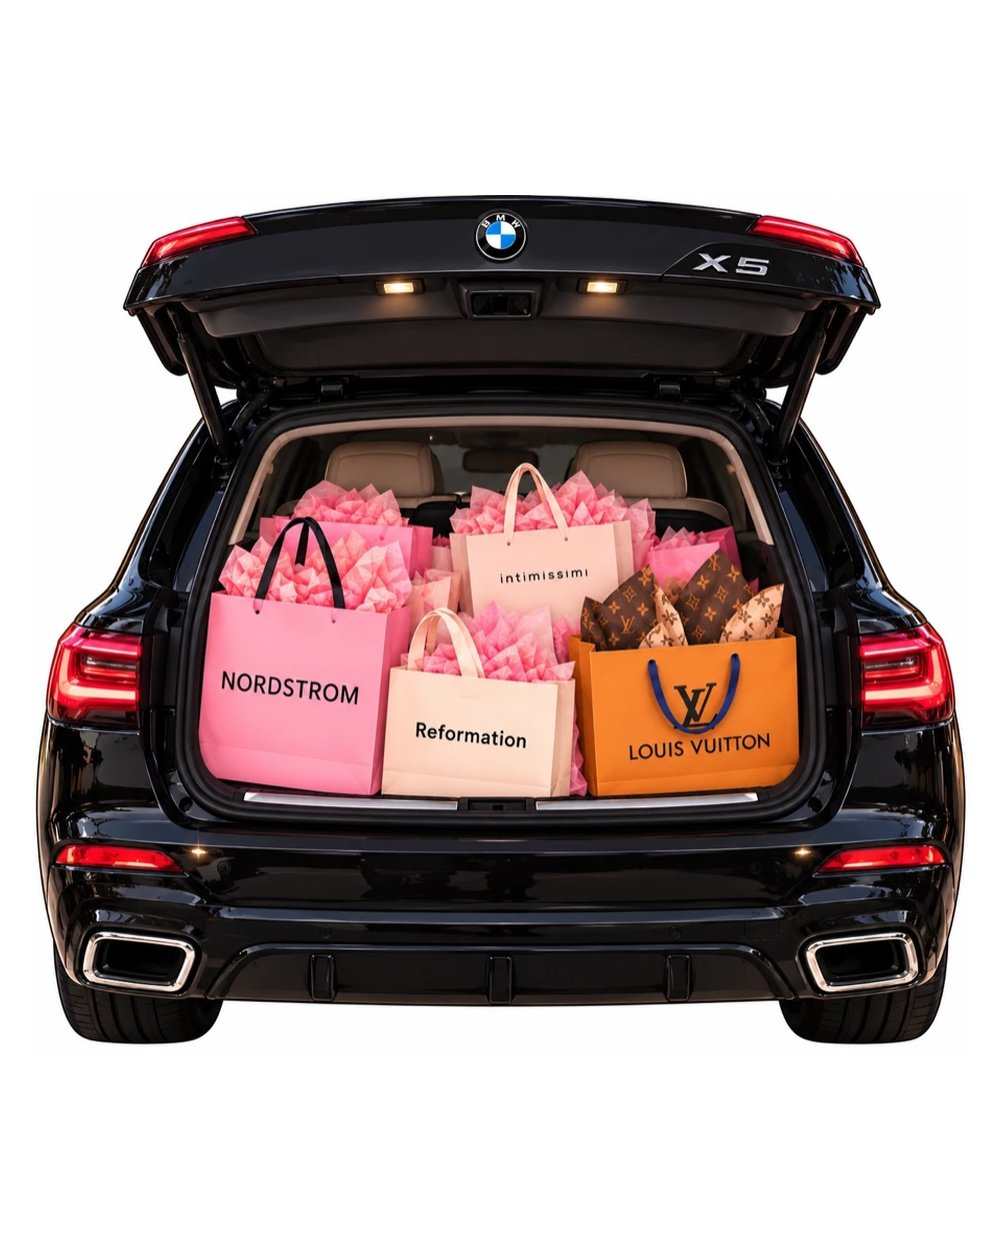
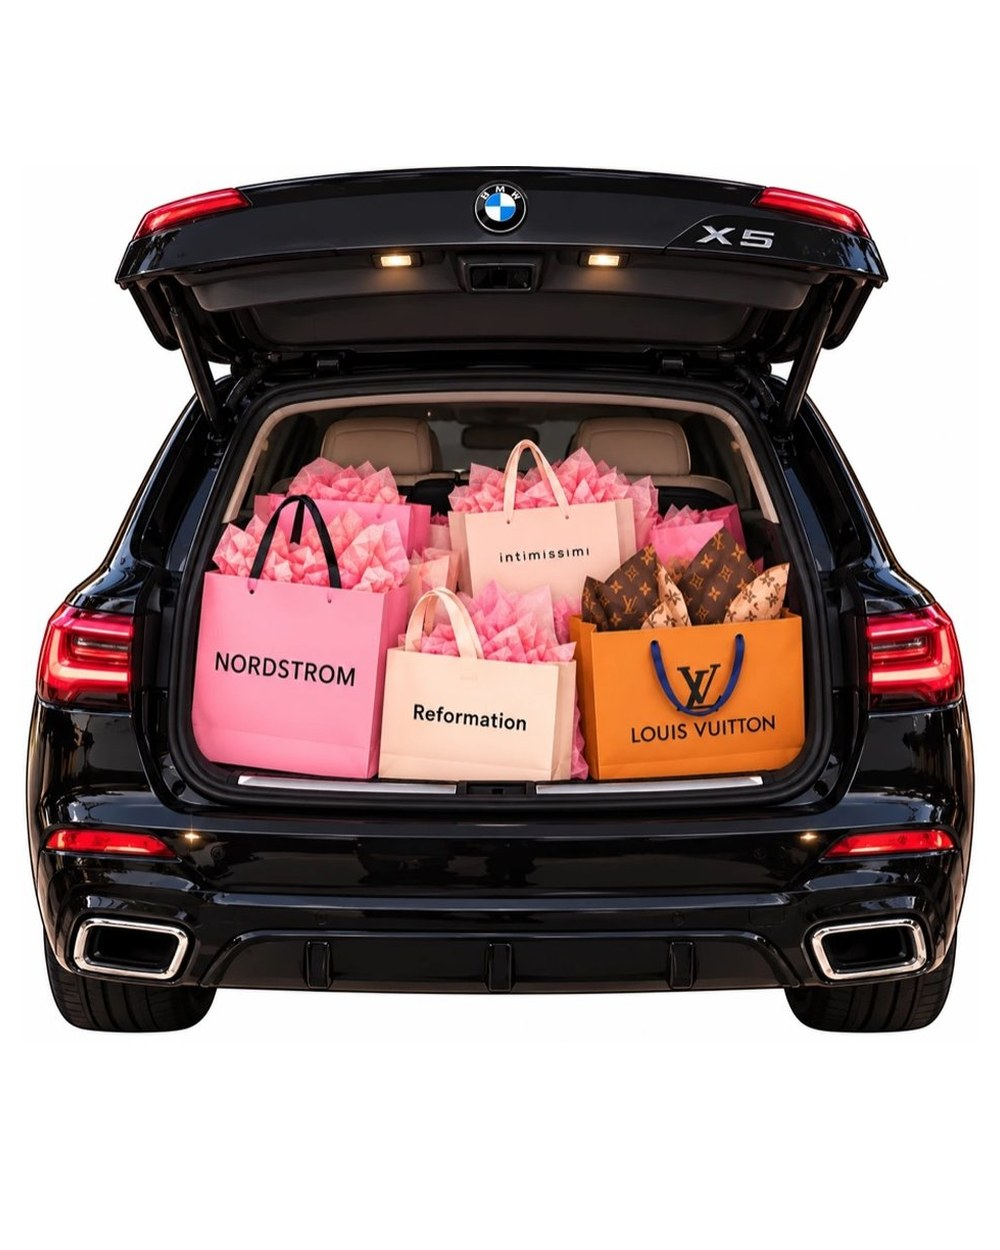
Trunk: smooth tailgate wipe between the two sharp photos; last stop is coffee

diff --git a/app.js b/app.js
@@ -1923,9 +1923,9 @@ const VIEWS = {
             <div class="bbb-photo kshop-photo" data-step="0">
                 <img data-s="0" src="assets/img/keys-before.jpg?v=2" alt="Me as a toddler, pouting in an empty shopping cart">
                 <img data-s="1" src="assets/img/keys-after.jpg?v=2" alt="Me as a toddler, beaming in a cart full of shopping bags" loading="lazy">
-                <img data-s="2" src="assets/img/keys-trunk.jpg?v=2" alt="My black BMW X5 with the trunk open, full of Nordstrom, Intimissimi, Reformation and Louis Vuitton bags" loading="lazy">
+                <img data-s="2" src="assets/img/keys-trunk.jpg?v=3" alt="My black BMW X5 with the trunk open, full of Nordstrom, Intimissimi, Reformation and Louis Vuitton bags" loading="lazy">
                 <img data-s="3" src="assets/img/keys-home.jpg?v=2" alt="My BMW X5 from the back, trunk closed, pink DIVAAA Texas plate" loading="lazy">
-                <img class="kshop-anim" src="assets/trunk/f00.jpg" alt="" aria-hidden="true">
+                <img class="kshop-anim-base" src="assets/img/keys-home.jpg?v=2" alt="" aria-hidden="true"><img class="kshop-anim" src="assets/img/keys-home.jpg?v=2" alt="" aria-hidden="true">
                 <span class="bbb-tag mono" id="kshop-tag">before the mall</span>
             </div>
             <button type="button" class="btn solid" id="kshop-go">cmon barbie, let’s go shopping 🛍</button>
@@ -3746,8 +3746,8 @@ const AFTER = {
                 const opening = !trunkOpen;
                 if (playing) return;
                 // start the flipbook from whatever the photo shows now, so it never jumps
-                if (opening) { SFX.fob('trunk'); playTrunk([0, 1, 2, 3, 4, 5, 6, 7], () => { setStep(2); toast('trunk’s open. the bags are safe ♡'); }); }
-                else { SFX.fob('lock'); playTrunk([10, 11, 12, 13, 14, 15], () => { setStep(3); toast('trunk closed. bags secured. no one will ever know.'); }); }
+                if (opening) { SFX.fob('trunk'); playTrunk(true, () => { setStep(2); toast('trunk’s open. the bags are safe ♡'); }); }
+                else { SFX.fob('lock'); playTrunk(false, () => { setStep(3); toast('trunk closed. bags secured. no one will ever know.'); }); }
                 $('#kshop').scrollIntoView({ block: 'center', behavior: reduce ? 'auto' : 'smooth' });
                 return;
             }
@@ -3763,9 +3763,9 @@ const AFTER = {
             [null, 'before the mall', 'cmon barbie, let’s go shopping 🛍', 'can we puh-weaseee go shopping? 🥺'],
             ['unlock', 'after the mall!', 'load up the car 🚙', 'nordstrom, intimissimi, reformation, louis vuitton. it’s called retail therapy.'],
             ['trunk', 'okay, stuff’s in the car', 'okay, time to go home 🏠', 'the trunk is full. the trunk is never full.'],
-            ['lock', 'okay, time to go home', 'one more lap 🛍', 'DIVAAA, headed home. (via one more store.)']
+            ['lock', 'okay, time to go home', 'okay but can we stop for coffee on the way ☕', 'DIVAAA, headed home.']
         ];
-        const laps2 = ['one more lap, obviously.', 'retail therapy is still therapy.', 'okay NOW we’re going home. (we are not.)'];
+        const laps2 = ['medici. vanilla latte. obviously ☕', 'one stamp closer to a free one.', 'okay NOW we’re going home ♡'];
         let step = 0, laps = 0;
         const photo = shop.querySelector('.kshop-photo');
         const showStep = () => {
@@ -3777,21 +3777,20 @@ const AFTER = {
         let trunkOpen = false;
         const setStep = n => { step = n; trunkOpen = n === 2; b2.textContent = trunkOpen ? 'Close trunk' : 'Trunk'; showStep(); if (!reduce) { shop.classList.remove('poof'); void shop.offsetWidth; shop.classList.add('poof'); } };
         const b2 = sheetBody.querySelector('[data-fob="trunk"]');
-        // the trunk flipbook: 20 frames. 0–5 the tailgate lifts and there are the bags, 10–14 it swings shut.
+        // the trunk: the incoming photo wipes in along the tailgate. opening sweeps up from the bumper, closing sweeps down from the roof.
         const anim = shop.querySelector('.kshop-anim');
-        const FR = Array.from({ length: 20 }, (_, i) => `assets/trunk/f${String(i).padStart(2, '0')}.jpg`);
-        FR.forEach(src => { const im = new Image(); im.src = src; });
         let playing = false;
-        const playTrunk = (frames, done) => {
+        const playTrunk = (opening, done) => {
             if (reduce) { done(); return; }
-            playing = true; photo.classList.add('animating');
-            let i = 0;
-            const tick = () => {
-                anim.src = FR[frames[i]];
-                if (++i < frames.length) setTimeout(tick, 95);
-                else { done(); setTimeout(() => { photo.classList.remove('animating'); playing = false; }, 800); }
-            };
-            tick();
+            playing = true;
+            shop.querySelector('.kshop-anim-base').src = opening ? 'assets/img/keys-home.jpg?v=2' : 'assets/img/keys-trunk.jpg?v=3';
+            anim.src = opening ? 'assets/img/keys-trunk.jpg?v=3' : 'assets/img/keys-home.jpg?v=2';
+            anim.style.transition = 'none';
+            anim.style.clipPath = opening ? 'inset(78% 0 0 0)' : 'inset(0 0 100% 0)';
+            photo.classList.add('animating'); void anim.offsetWidth;
+            anim.style.transition = 'clip-path 1.1s cubic-bezier(.45,.05,.25,1)';
+            anim.style.clipPath = 'inset(0 0 0 0)';
+            setTimeout(() => { done(); setTimeout(() => { photo.classList.remove('animating'); anim.style.clipPath = ''; playing = false; }, 800); }, 1150);
         };
         $('#kshop-go').onclick = () => {
             if (step < STEPS.length - 1) { step++; trunkOpen = step === 2; b2.textContent = trunkOpen ? 'Close trunk' : 'Trunk'; if (STEPS[step][0]) SFX.fob(STEPS[step][0]); showStep(); }

diff --git a/style.css b/style.css
@@ -2819,8 +2819,10 @@ dialog.sheet:has(.skin-layout) { width: min(1180px, calc(100vw - 24px)); }
 .apt.near .apt-reader i { border-color: #F28DB4; box-shadow: 0 0 10px 3px rgba(242,141,180,.7); }
 
 /* trunk flipbook sits on top of the photo while it plays */
-.kshop-anim { position: absolute; inset: 0; width: 100%; height: 100%; object-fit: contain; opacity: 0; transition: none !important; pointer-events: none; }
-.kshop-photo.animating .kshop-anim { opacity: 1 !important; }
+.kshop-anim, .kshop-anim-base { position: absolute; inset: 0; width: 100%; height: 100%; object-fit: contain; opacity: 0 !important; pointer-events: none; background: #fff; }
+.kshop-photo.animating .kshop-anim, .kshop-photo.animating .kshop-anim-base { opacity: 1 !important; }
+.kshop-anim { z-index: 2; } .kshop-anim-base { z-index: 1; }
+.kshop-photo .bbb-tag { z-index: 3; }
 
 /* pads: the note is big and centered, front and center. folded, it slides off to the side. */
 .pd.reading .pd-note { left: 6%; right: 6%; top: 4%; width: auto; transform: rotate(-1.2deg); }

diff --git a/index.html b/index.html
@@ -8,7 +8,7 @@
 <link rel="preconnect" href="https://fonts.googleapis.com">
 <link rel="preconnect" href="https://fonts.gstatic.com" crossorigin>
 <link href="https://fonts.googleapis.com/css2?family=Bodoni+Moda:ital,opsz,wght@0,6..96,400;0,6..96,600;1,6..96,400;1,6..96,600&family=Caveat:wght@500;700&family=Kalam:wght@400;700&family=Instrument+Sans:wght@400;500;600&family=JetBrains+Mono:wght@400;500&display=swap" rel="stylesheet">
-<link rel="stylesheet" href="style.css?v=1790922053">
+<link rel="stylesheet" href="style.css?v=1790922165">
 </head>
 <body>
 
@@ -58,7 +58,7 @@
 <div class="tint" id="tint" aria-hidden="true"></div>
 <div class="toast hand" id="toast" role="status" aria-live="polite"></div>
 
-<script src="items.js?v=1790922053"></script>
-<script src="app.js?v=1790922053"></script>
+<script src="items.js?v=1790922165"></script>
+<script src="app.js?v=1790922165"></script>
 </body>
 </html>
